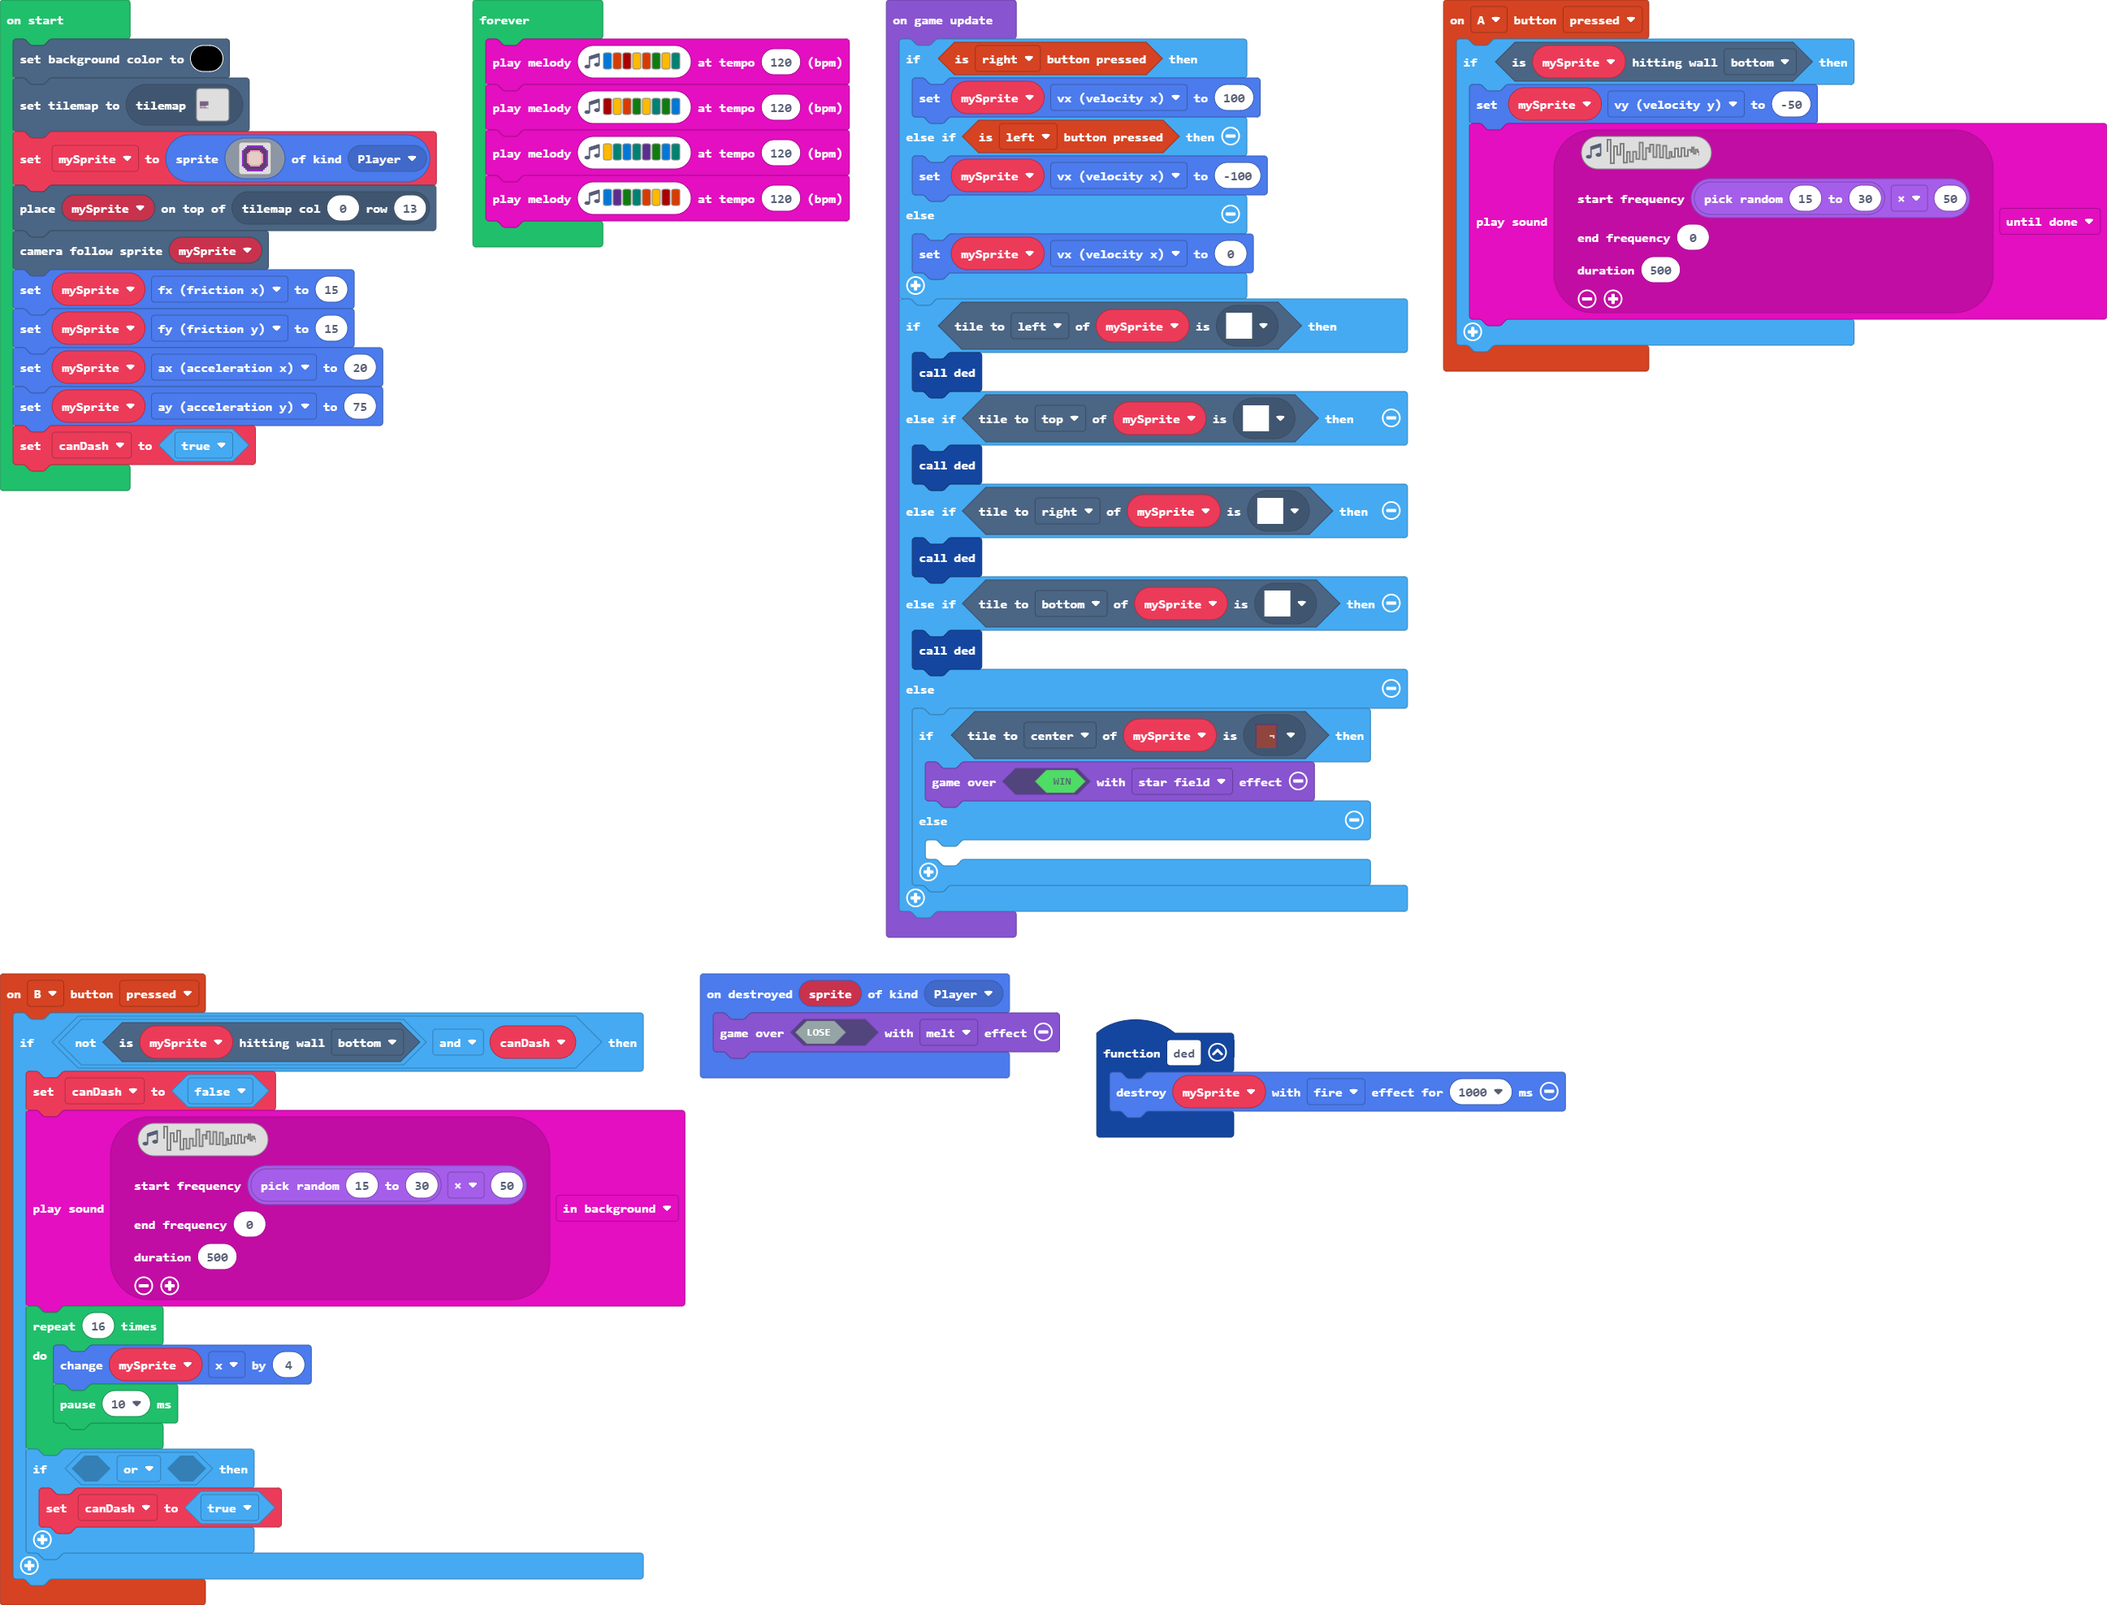
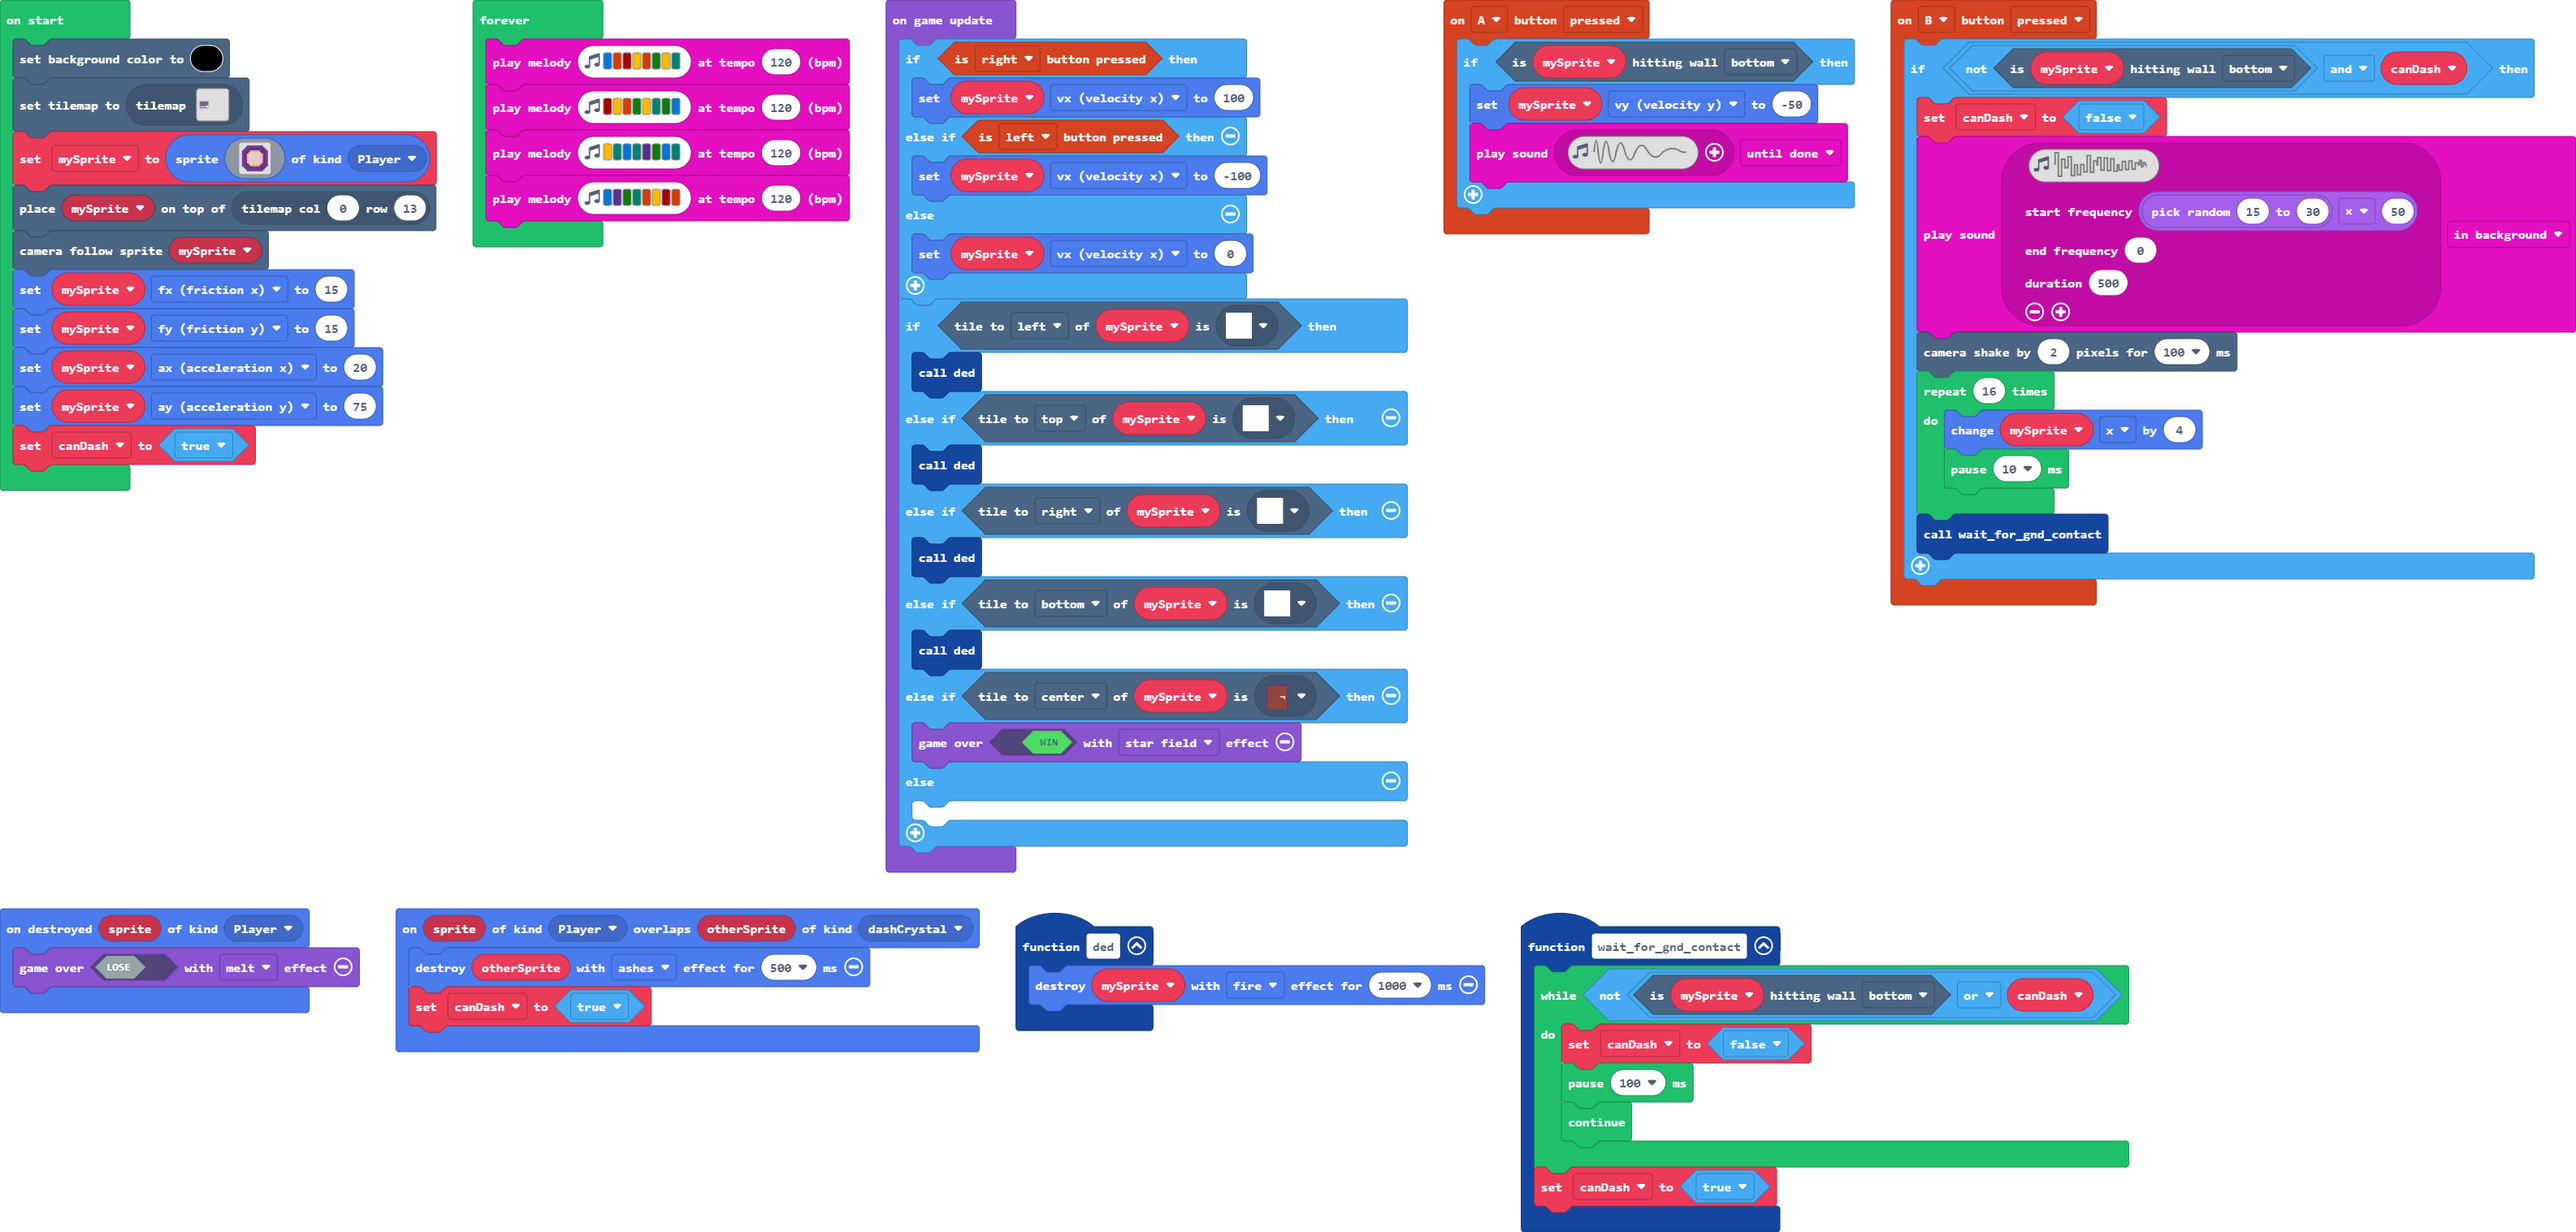
Added dash screenshake, added module for tracking ground contact after dash

diff --git a/main.ts b/main.ts
@@ -1,3 +1,6 @@
+namespace SpriteKind {
+    export const dashCrystal = SpriteKind.create()
+}
 controller.B.onEvent(ControllerButtonEvent.Pressed, function () {
     if (!(mySprite.isHittingTile(CollisionDirection.Bottom)) && canDash) {
         canDash = false
@@ -11,29 +14,31 @@ controller.B.onEvent(ControllerButtonEvent.Pressed, function () {
         SoundExpressionEffect.Vibrato,
         InterpolationCurve.Linear
         ), SoundExpressionPlayMode.InBackground)
+        scene.cameraShake(2, 100)
         for (let index = 0; index < 16; index++) {
             mySprite.x += 4
             pause(10)
         }
-        if (false || false) {
-            canDash = true
-        }
+        wait_for_gnd_contact()
     }
 })
+function wait_for_gnd_contact () {
+    while (!(mySprite.isHittingTile(CollisionDirection.Bottom) || canDash)) {
+        canDash = false
+        pause(100)
+        continue;
+    }
+    canDash = true
+}
 controller.A.onEvent(ControllerButtonEvent.Pressed, function () {
     if (mySprite.isHittingTile(CollisionDirection.Bottom)) {
         mySprite.vy = -50
-        music.playSoundEffect(music.createSoundEffect(
-        WaveShape.Noise,
-        randint(15, 30) * 50,
-        0,
-        1024,
-        0,
-        500,
-        SoundExpressionEffect.None,
-        InterpolationCurve.Logarithmic
-        ), SoundExpressionPlayMode.UntilDone)
+        music.playSoundEffect(music.createSoundEffect(WaveShape.Sine, 5000, 0, 255, 0, 500, SoundExpressionEffect.None, InterpolationCurve.Linear), SoundExpressionPlayMode.UntilDone)
     }
+})
+sprites.onOverlap(SpriteKind.Player, SpriteKind.dashCrystal, function (sprite, otherSprite) {
+    otherSprite.destroy(effects.ashes, 500)
+    canDash = true
 })
 function ded () {
     mySprite.destroy(effects.fire, 1000)
@@ -69,12 +74,10 @@ game.onUpdate(function () {
         ded()
     } else if (mySprite.tileKindAt(TileDirection.Bottom, assets.tile`deadly tile`)) {
         ded()
+    } else if (mySprite.tileKindAt(TileDirection.Center, assets.tile`door`)) {
+        game.over(true, effects.starField)
     } else {
-        if (mySprite.tileKindAt(TileDirection.Center, assets.tile`door`)) {
-            game.over(true, effects.starField)
-        } else {
-        	
-        }
+    	
     }
 })
 forever(function () {

diff --git a/main.py b/main.py
@@ -1,24 +1,67 @@
+def on_b_pressed():
+    global canDash
+    if not (mySprite.is_hitting_tile(CollisionDirection.BOTTOM)) and canDash:
+        canDash = False
+        music.play_sound_effect(music.create_sound_effect(WaveShape.NOISE,
+                randint(15, 30) * 50,
+                0,
+                1024,
+                0,
+                500,
+                SoundExpressionEffect.VIBRATO,
+                InterpolationCurve.LINEAR),
+            SoundExpressionPlayMode.IN_BACKGROUND)
+        scene.camera_shake(4, 200)
+        for index in range(16):
+            mySprite.x += 4
+            pause(10)
+        wait_for_gnd_contact()
+controller.B.on_event(ControllerButtonEvent.PRESSED, on_b_pressed)
+
 def on_a_pressed():
     if mySprite.is_hitting_tile(CollisionDirection.BOTTOM):
         mySprite.vy = -50
+        music.play_sound_effect(music.create_sound_effect(WaveShape.SINE,
+                5000,
+                0,
+                255,
+                0,
+                500,
+                SoundExpressionEffect.NONE,
+                InterpolationCurve.LINEAR),
+            SoundExpressionPlayMode.UNTIL_DONE)
 controller.A.on_event(ControllerButtonEvent.PRESSED, on_a_pressed)
 
-def killPlayer():
-    mySprite.destroy(effects.disintegrate, 500)
+def ded():
+    mySprite.destroy(effects.fire, 1000)
+
+def on_on_destroyed(sprite):
     game.over(False, effects.melt)
+sprites.on_destroyed(SpriteKind.player, on_on_destroyed)
+
+def wait_for_gnd_contact():
+    global canDash
+    while not (mySprite.is_hitting_tile(CollisionDirection.BOTTOM)):
+        canDash = False
+        pause(100)
+        continue
+    canDash = True
+canDash = False
 mySprite: Sprite = None
 scene.set_background_color(15)
-tiles.set_current_tilemap(tilemap("""level0"""))
+tiles.set_current_tilemap(tilemap("""
+    level0
+"""))
 mySprite = sprites.create(assets.image("""
     character
 """), SpriteKind.player)
 tiles.place_on_tile(mySprite, tiles.get_tile_location(0, 13))
 scene.camera_follow_sprite(mySprite)
-mySprite.set_flag(SpriteFlag.SHOW_PHYSICS, True)
 mySprite.fx = 15
 mySprite.fy = 15
 mySprite.ax = 20
 mySprite.ay = 75
+canDash = True
 
 def on_on_update():
     if controller.right.is_pressed():
@@ -27,22 +70,34 @@ def on_on_update():
         mySprite.vx = -100
     else:
         mySprite.vx = 0
-    if mySprite.tile_kind_at(TileDirection.BOTTOM, assets.tile("""
+    if mySprite.tile_kind_at(TileDirection.LEFT, assets.tile("""
         deadly tile
     """)):
-        killPlayer()
-    elif mySprite.tile_kind_at(TileDirection.LEFT, assets.tile("""
-        deadly tile
-    """)):
-        killPlayer()
+        ded()
     elif mySprite.tile_kind_at(TileDirection.TOP, assets.tile("""
         deadly tile
     """)):
-        killPlayer()
+        ded()
     elif mySprite.tile_kind_at(TileDirection.RIGHT, assets.tile("""
         deadly tile
     """)):
-        killPlayer()
+        ded()
+    elif mySprite.tile_kind_at(TileDirection.BOTTOM, assets.tile("""
+        deadly tile
+    """)):
+        ded()
     else:
-        killPlayer()
+        if mySprite.tile_kind_at(TileDirection.CENTER, assets.tile("""
+            door
+        """)):
+            game.over(True, effects.star_field)
+        else:
+            pass
 game.on_update(on_on_update)
+
+def on_forever():
+    music.play_melody("E B C5 A B G A F ", 120)
+    music.play_melody("C5 A B G A F G E ", 120)
+    music.play_melody("A F E F D G E F ", 120)
+    music.play_melody("E D G F B A C5 B ", 120)
+forever(on_forever)
